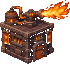
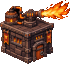
fix(art): re-cut three Forge buildings keying only border-connected black (dark mortar showed as holes)

diff --git a/docs/art-review/g5/recut_border_key.py b/docs/art-review/g5/recut_border_key.py
@@ -1,0 +1,61 @@
+"""Re-cut approved black-background building sources keying only BORDER-CONNECTED black (10/11/2026).
+
+    python docs/art-review/g5/recut_border_key.py forge_flame_tower forge_iron_drake forge_bombardiers
+
+The G5 cutter keyed every near-black pixel, so dark mortar lines and outlines inside a building became holes (the
+owner saw them as green dotted lines over the grass). This keeps the published image's exact size and footprint: it
+crops the source to the object, box-reduces (mask-weighted, alpha 0/255) to the current PNG's width × height and
+overwrites it. The old file is kept as `<id>.pre-recut.png` next to the source for rollback.
+"""
+import sys
+from pathlib import Path
+
+import numpy as np
+from PIL import Image
+
+ROOT = Path(__file__).resolve().parents[3]
+ART = ROOT / 'public/assets/art/ai-v1/iso'
+
+
+def background(a: np.ndarray) -> np.ndarray:
+    cand = a.max(axis=2) < 6  # the sources sit on pure black (0–1); dark mortar is darker than 28 but not this dark
+    bg = np.zeros_like(cand)
+    bg[0, :], bg[-1, :], bg[:, 0], bg[:, -1] = cand[0, :], cand[-1, :], cand[:, 0], cand[:, -1]
+    while True:
+        g = bg.copy()
+        g[1:, :] |= bg[:-1, :]
+        g[:-1, :] |= bg[1:, :]
+        g[:, 1:] |= bg[:, :-1]
+        g[:, :-1] |= bg[:, 1:]
+        g &= cand
+        if (g == bg).all():
+            return bg
+        bg = g
+
+
+def recut(card: str) -> None:
+    king = card.split('_', 1)[0]
+    src = ROOT / f'docs/art-review/g5/{king}/{card}/source.png'
+    dst = ART / f'{card}.png'
+    old = Image.open(dst).convert('RGBA')
+    (src.parent / f'{card}.pre-recut.png').write_bytes(dst.read_bytes())
+    a = np.array(Image.open(src).convert('RGB')).astype(float)
+    solid = ~background(a)
+    ys, xs = np.where(solid)
+    y0, y1, x0, x1 = ys.min(), ys.max() + 1, xs.min(), xs.max() + 1
+    crop, m = a[y0:y1, x0:x1], solid[y0:y1, x0:x1].astype(np.float32)
+    tw, th = old.size
+    mm = np.array(Image.fromarray(m, mode='F').resize((tw, th), Image.BOX))
+    out = np.zeros((th, tw, 4), dtype=np.uint8)
+    for k in range(3):
+        wk = np.array(Image.fromarray((crop[..., k] * m).astype(np.float32), mode='F').resize((tw, th), Image.BOX))
+        out[..., k] = np.clip(np.round(wk / np.maximum(mm, 1e-6)), 0, 255).astype(np.uint8)
+    out[..., 3] = np.where(mm >= 0.5, 255, 0)
+    out[out[..., 3] == 0] = 0
+    Image.fromarray(out, 'RGBA').save(dst)
+    print(card, (tw, th), 'opaque px', int((np.array(old)[..., 3] > 0).sum()), '->', int((out[..., 3] > 0).sum()))
+
+
+if __name__ == '__main__':
+    for c in sys.argv[1:]:
+        recut(c)

diff --git a/docs/art-review/levels/review.md b/docs/art-review/levels/review.md
@@ -15,7 +15,7 @@ Danh sách P2 `building_<card>_l2/_l3` trong `tools/asset-admin/planned.json`. D
 - **Phép Thuật, học viện / thư viện / tháp pháp sư:** "mái sọc xanh lá" thật ra là lỗi cắt: khoá màu magenta lỏng ăn cả mái tím, cỏ lộ qua lỗ. `make_levels.py` nay chỉ bỏ magenta nối liền mép ảnh (cộng vài túi magenta thuần kẹt bên trong); cắt lại từ bản vẽ đầu (bản vẽ lại giữ ở `source-v2.png`). ĐÃ DUYỆT. Cắt lại các vua đã duyệt: chỉ lấp vài lỗ nhỏ (0–83 px mỗi ảnh).
 - **Rừng Xanh (8):** hang gấu, cây non, cổng hươu, suối, tháp gai, Ngai, người cây, hang sói. Bảng `sheet-grove.png`. ĐÃ DUYỆT.
 - **Thuỷ Triều (8):** pháo, cảng, nhà móc câu, xoáy kraken, tàu cướp biển, Ngai, rương báu, tháp sóng. Bảng `sheet-tide.png`. ĐÃ DUYỆT.
-- **Lò Rèn (8):** kho vũ khí, lò cao, nhà pháo thủ, tháp lửa, hang rồng sắt, lò rèn, nhà kiếm sĩ, Ngai. Bảng `sheet-forge.png`. ĐÃ DUYỆT. Ghi chú: ảnh cấp 1 có sẵn của tháp lửa, hang rồng sắt và nhà pháo thủ có viền xanh lá mảnh ở mép (lỗi cũ của ảnh gốc, chưa sửa).
+- **Lò Rèn (8):** kho vũ khí, lò cao, nhà pháo thủ, tháp lửa, hang rồng sắt, lò rèn, nhà kiếm sĩ, Ngai. Bảng `sheet-forge.png`. ĐÃ DUYỆT. Ảnh cấp 1 của tháp lửa, hang rồng sắt và nhà pháo thủ bị thủng ở mạch vữa tối (cỏ lộ ra như viền xanh): cắt lại bằng `g5/recut_border_key.py` (chỉ bỏ nền đen nối liền mép), cùng kích thước.
 - **Đồng Hồ (8):** tháp chuông, xưởng người khổng lồ, tháp bánh răng, xưởng nhện, xưởng lò xo, pháo hơi nước, Ngai, xưởng lính lên dây. Bảng `sheet-clock.png`. ĐÃ DUYỆT.
 
 ## Tạm dừng 10/11/2026 (chủ dự án bảo dừng)
